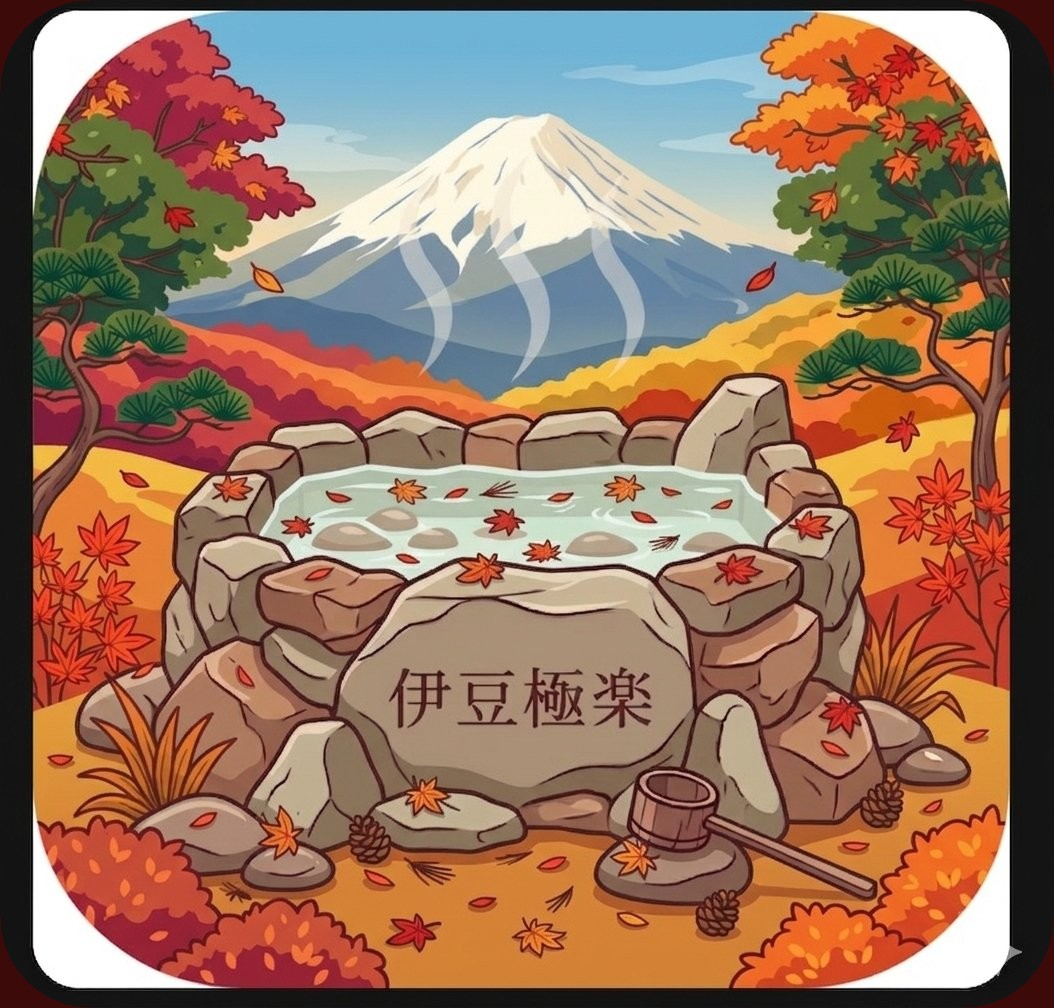
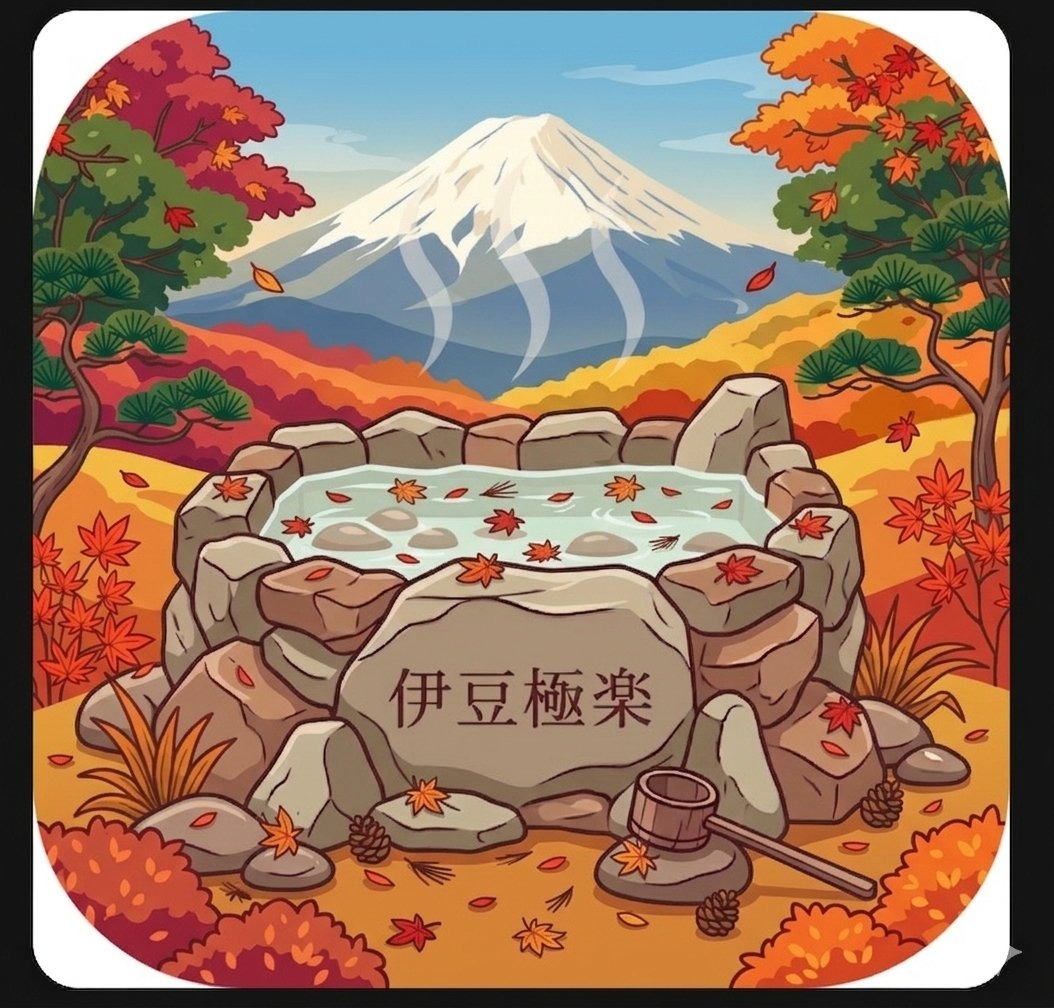
Fix: 画像オリジナルに戻す + border-radius:40pxで白い角を完全除去

diff --git a/index.html b/index.html
@@ -51,7 +51,7 @@ html,body{height:100%;background:var(--cream);color:var(--text);font-family:"Hir
   letter-spacing:0.35em;text-indent:0.35em;position:relative;z-index:1;
   text-shadow:0 2px 16px rgba(0,0,0,0.6);}
 #hero-sub{font-size:11px;color:rgba(232,200,122,0.65);letter-spacing:0.2em;margin-top:5px;position:relative;z-index:1;}
-#hero-img-wrap{margin:16px auto 0;width:170px;height:170px;border-radius:22px;overflow:hidden;
+#hero-img-wrap{margin:16px auto 0;width:170px;height:170px;border-radius:40px;overflow:hidden;
   box-shadow:0 8px 36px rgba(0,0,0,0.55),0 0 0 2.5px rgba(200,168,75,0.5);
   position:relative;z-index:1;background:#3d0a0a;}
 #hero-img{width:100%;height:100%;object-fit:cover;}
